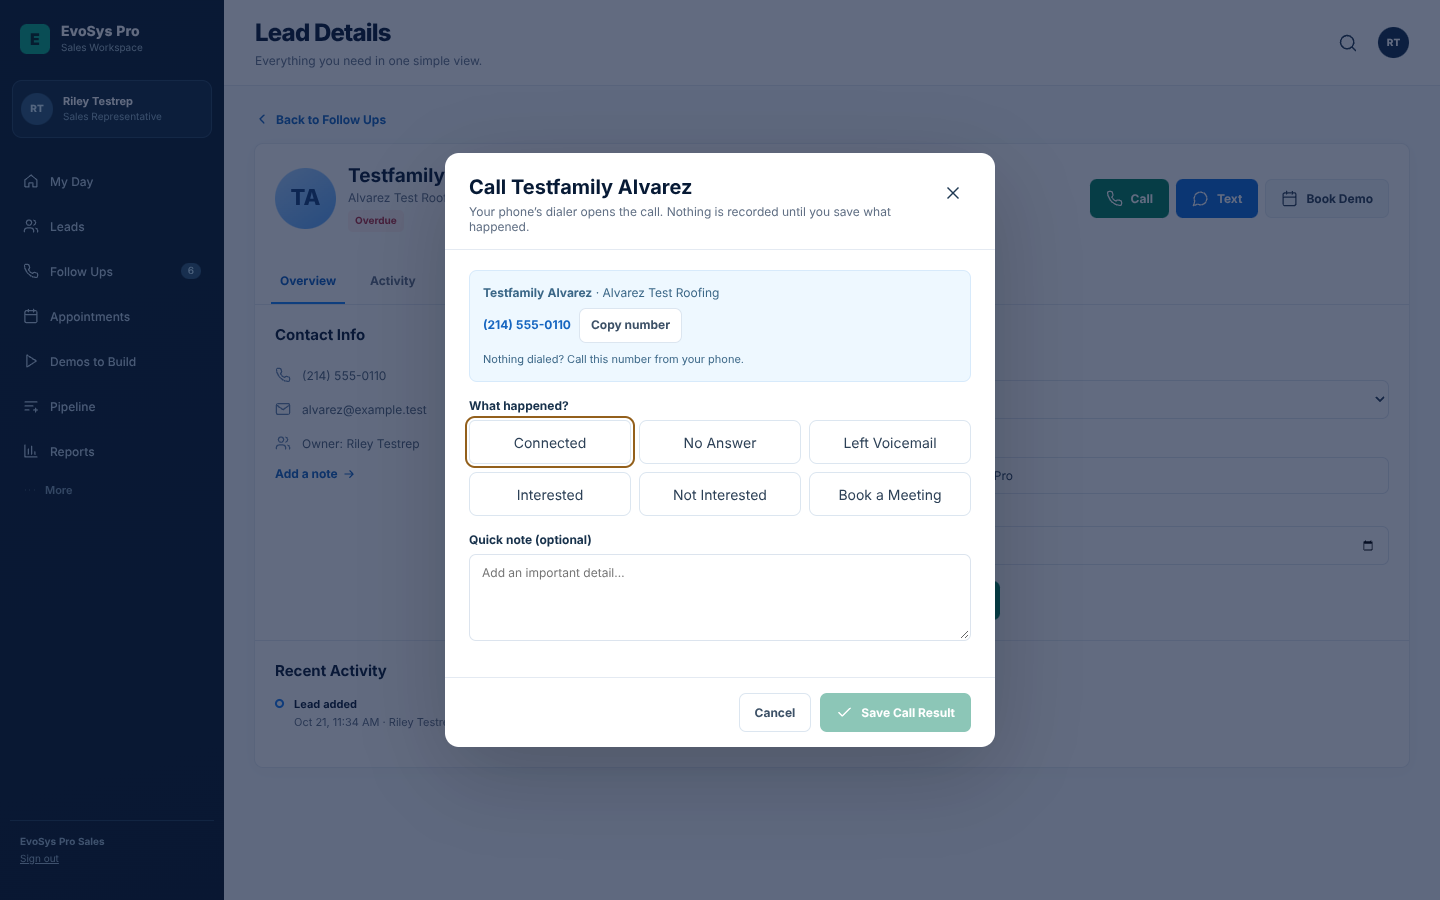
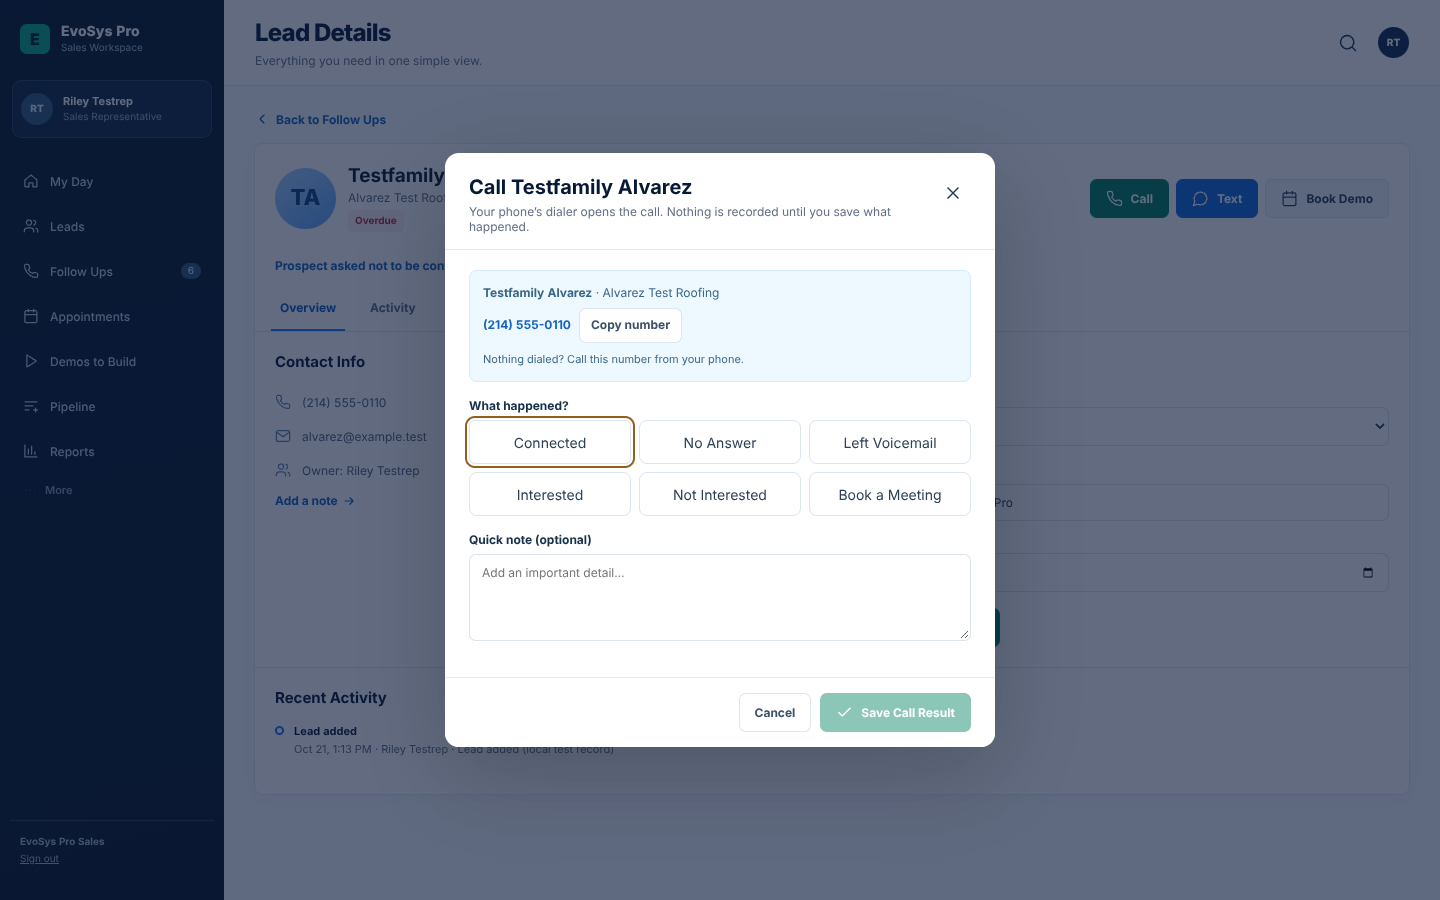
Docs: closeout screenshots, walkthrough 154/154, Do Not Contact spec (#281)
- Phone More menu (rep, rep with Demo Suite, manager), call-result dialog at
  390x844 / 390x600 / 375x480, Do Not Contact record + manager lift.
- Six screens retaken on the merged branch ('Demo & Closing' included).
- e2e.mjs synced with the closeout checks, keeping SW_APP / SW_CHROME
  defaults; grant_demo.py gives rep2 the Demo Suite grant locally.

Claude-Session: https://claude.ai/code/session_0163pSw7CaKLAqR4T5nuymug

Changed region(s): [[0.1875, 0.28, 0.3125, 0.56], [0.1875, 0.7156, 0.2812, 0.84], [0.6875, 0.6844, 0.7188, 0.7156]]

diff --git a/docs/redesign/sales-workspace-e2e/grant_demo.py b/docs/redesign/sales-workspace-e2e/grant_demo.py
@@ -1,0 +1,10 @@
+# Local synthetic data only: give rep2@example.test the demo_suite grant so the
+# phone "More" check can see Demo Suite offered to a permitted rep.
+# Usage: python grant_demo.py <path to the local SQLite db>
+import sqlite3, uuid, sys
+db = sqlite3.connect(sys.argv[1])
+uid = db.execute("select id from users where email='rep2@example.test'").fetchone()[0]
+pid = db.execute("select platform_id from brand_sales_orgs limit 1").fetchone()[0]
+db.execute("insert into user_capability_grants (id,user_id,scope_type,scope_id,capability,is_active) values (?,?,?,?,?,1)",
+           (str(uuid.uuid4()), uid, 'platform', pid, 'demo_suite'))
+db.commit(); print('granted', uid, pid)

diff --git a/docs/redesign/SALES_WORKSPACE_SPEC.md b/docs/redesign/SALES_WORKSPACE_SPEC.md
@@ -126,17 +126,57 @@ booking response (handed to the mail service / not sent yet / no email on the le
 **Dialogs** — focus moves inside on open, Tab stays inside, Escape closes, focus
 returns to the button that opened it.
 
-## Do Not Contact — dependency, not built
+## Do Not Contact (sales prospects)
 
-The only authoritative suppression list, `SuppressionEntry`
-(`app/models/models.py`, enforced in `app/services/compliance_service.py`), is keyed
-to a **customer organization** and covers tenant leads. Sales prospects belong to a
-**brand sales org** and have no opt-out record, and nothing in the sales workspace
-sends messages through a provider (calls and texts go through the rep's own phone).
-Per the brief, no front-end-only flag was added. Supporting "Do not contact" for
-sales prospects needs a shared backend change (an opt-out record the scheduler's
-invitation sender and any future outreach both honour), coordinated on #239.
+**Why a sales table.** The existing list, `SuppressionEntry` (`app/models/models.py`,
+enforced in `compliance_service`), is keyed to a customer organization and covers
+phone only; sales prospects belong to a brand sales org and are reached by phone and
+email. So the record is `sales_contact_suppressions`
+(`app/models/sales_suppression_models.py`), using the **same phone normaliser**
+(`compliance_service.usable_us_phone`) so a number means the same thing on both
+sides. Coordinated on #239 before the shared files (`app/models/registry.py`, the
+invitation/reminder/confirmation/proposal senders) were touched.
+
+**What a row means.** Within one brand sales org, do not contact this phone and/or
+this email. Matching is by contact detail, so every duplicate record of the same
+person (other phone formatting, other capitalisation of the email) is covered,
+including duplicates created later. Rows are never deleted.
+
+**Recording.** A rep picks Not Interested → *Asked not to be contacted* on the
+call result (or the link on Lead Details). The call note is saved, the deal's
+follow-up is cleared, and `POST /sales/opportunities/{id}/do-not-contact` writes
+the row with who recorded it and why. It is distinct from Lost: the deal keeps its
+stage; it simply can no longer be contacted.
+
+**Enforced on the server** (`app/services/sales_suppression.py`):
+- scheduling a next action or due date → 409 (clearing is allowed)
+- logging a call result or a sent text → 409
+- booking a meeting → 409
+- prospect invitations, 24-hour reminders, demo confirmations and proposal emails
+  → nothing is sent (recorded as skipped, never raised to the caller)
+- My Day / Follow Ups never count a suppressed deal as due; a new duplicate gets
+  no follow-up.
+
+**Correction.** Only a sales manager of that brand (or the owner) can lift it,
+with a required reason: `POST /sales/do-not-contact/{id}/lift`. The row keeps
+recorded-by, lifted-by, both times and both reasons, and every matching deal gets
+a timeline entry. Lifting never schedules anything; a rep must set a new
+follow-up by hand. Nothing lifts a request automatically. Another brand's ids
+return 404.
+
+**Tests.** `tests/test_sales_do_not_contact.py` (12): recording, distinct from
+Lost, nothing-to-suppress, other rep refused, every enforcement path, every email
+sender sends nothing, duplicates by phone format and email case, new duplicate,
+other brand unaffected and unprobeable, manager-only lift with history kept.
+End-to-end DNC-0…DNC-14 cover the same through the screens.
 
 ## Known limits
 
 - Booking still emails the prospect the usual invitation, exactly as before.
+- Do Not Contact is sales-scoped: it does not add the number to a customer
+  workspace's own suppression list (different owner, different list), and the
+  customer list does not feed it.
+- Calls and texts go through the rep's own phone; the app removes Call/Text and
+  refuses to log them, but cannot stop someone dialling the number by hand.
+- A lead with no usable phone or email cannot be suppressed (nothing to match);
+  the server says so rather than saving an empty record.

diff --git a/docs/redesign/SALES_WORKSPACE_SCREENSHOTS.md b/docs/redesign/SALES_WORKSPACE_SCREENSHOTS.md
@@ -36,9 +36,9 @@ Real headless-Chromium captures of the app running locally against synthetic tes
 
 ![8. Post-call "What happened?"](screenshots/sales-workspace/e2e-03-what-happened.png)
 
-### 9. Not Interested → Close as Lost / Follow up later
+### 9. Not Interested → Close as Lost / Follow up later / Asked not to be contacted
 
-![9. Not Interested → Close as Lost / Follow up later](screenshots/sales-workspace/e2e-09-not-interested-options.png)
+![9. Not Interested choices](screenshots/sales-workspace/e2e-09-not-interested-options.png)
 
 ### Reports
 
@@ -57,6 +57,34 @@ Real headless-Chromium captures of the app running locally against synthetic tes
 | "What happened?" (Not Interested) |
 |---|
 | ![](screenshots/sales-workspace/e2e-m-what-happened.png) |
+
+## Phone closeout — More menu, call-result dialog
+
+The phone top bar keeps the seven main items; everything else (and Sign out) is under **More**.
+
+| Rep | Rep allowed the Demo Suite | Manager (MY TEAM stays in the bar) |
+|---|---|---|
+| ![](screenshots/sales-workspace/e2e-m-more-rep.png) | ![](screenshots/sales-workspace/e2e-m-more-rep-with-demo.png) | ![](screenshots/sales-workspace/e2e-m-more-manager.png) |
+
+Longest Not Interested form (2,000-character note): header and Save/Cancel stay on screen while the middle scrolls.
+
+| 390×844 | 390×600 | 375×480 (keyboard open) |
+|---|---|---|
+| ![](screenshots/sales-workspace/e2e-m-dialog-390x844.png) | ![](screenshots/sales-workspace/e2e-m-dialog-390x600.png) | ![](screenshots/sales-workspace/e2e-m-dialog-375x480-keyboard.png) |
+
+## Do Not Contact
+
+### Recorded by the rep from a call — Call, Text and Book Demo removed
+
+![Do Not Contact on Lead Details](screenshots/sales-workspace/e2e-dnc-lead-rep.png)
+
+### Manager correction needs a reason
+
+![Manager lift](screenshots/sales-workspace/e2e-dnc-manager-lift.png)
+
+### After the lift — history kept, nothing rescheduled (phone)
+
+![After lift](screenshots/sales-workspace/e2e-m-dnc-lifted-manager.png)
 
 ## Tablet (820 px)
 

diff --git a/docs/redesign/sales-workspace-e2e/README.md b/docs/redesign/sales-workspace-e2e/README.md
@@ -36,12 +36,23 @@ curl -X PUT http://127.0.0.1:8000/sales/availability/me -H "Authorization: Beare
                      {"day_of_week":2,"start_minute":0,"end_minute":1440},{"day_of_week":3,"start_minute":0,"end_minute":1440},
                      {"day_of_week":4,"start_minute":0,"end_minute":1440},{"day_of_week":5,"start_minute":0,"end_minute":1440},
                      {"day_of_week":6,"start_minute":0,"end_minute":1440}]}'
+python grant_demo.py ./local.db      # rep2 may present the Demo Suite (phone More check)
 npm i puppeteer-core axe-core          # next to the scripts
 SW_CHROME=/path/to/headless_shell node e2e.mjs ./out ./outbox.log
 SW_CHROME=/path/to/headless_shell node shots.mjs ./shots ./rep.tok
 ```
 
 Restart `run_local.py` before each full run (it rebuilds the throwaway database).
+
+**Closeout run 2026-10-21 13:20 CDT** (phone More menu, phone call-result dialog, Do Not
+Contact), on the branch after merging the "Demo & Closing" rename: **154/154 pass**, no console
+errors, only blocked host `fonts.googleapis.com`. New checks: MN-* (phone More for a rep, a rep
+with the Demo Suite grant and a manager — exact allowed pages, keyboard, Escape, outside tap,
+44px, every destination opens), MD-* (longest Not Interested form at 390x844, 390x600 and
+375x480 with a 2,000-character note — header and Save/Cancel stay on screen, a missing-date error
+is shown in view without losing the note, saves in full), DNC-* (record from a call, duplicate by
+phone format, follow-ups cleared, server 409s, booking refused, nothing sent, manager-only lift
+with reason, history kept, nothing rescheduled).
 
 **Independent re-run 2026-10-21 12:14 CDT** on head `c399da9` (a separate session, different
 machine, steps above): **81/81 pass**, no console errors, only blocked host
